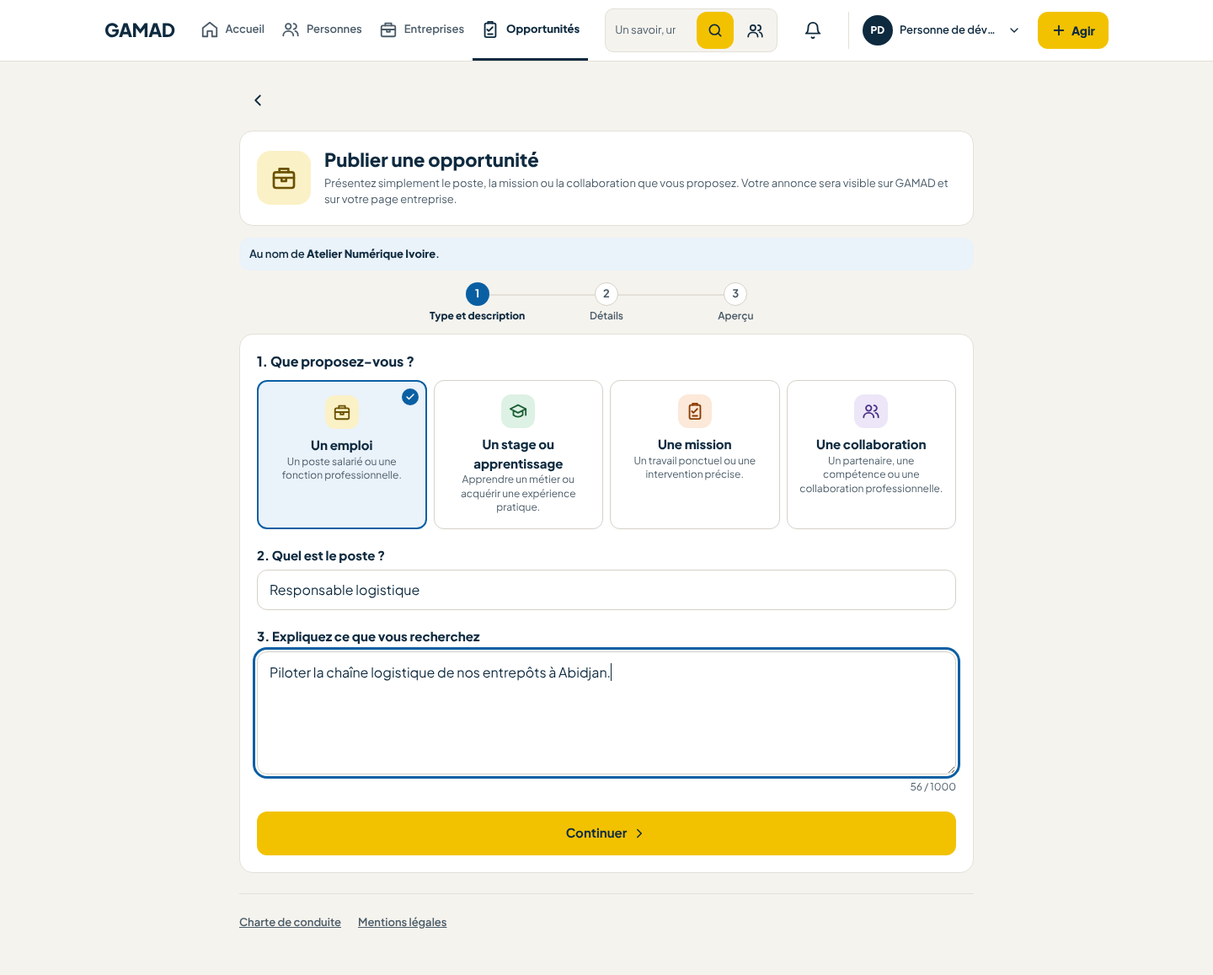
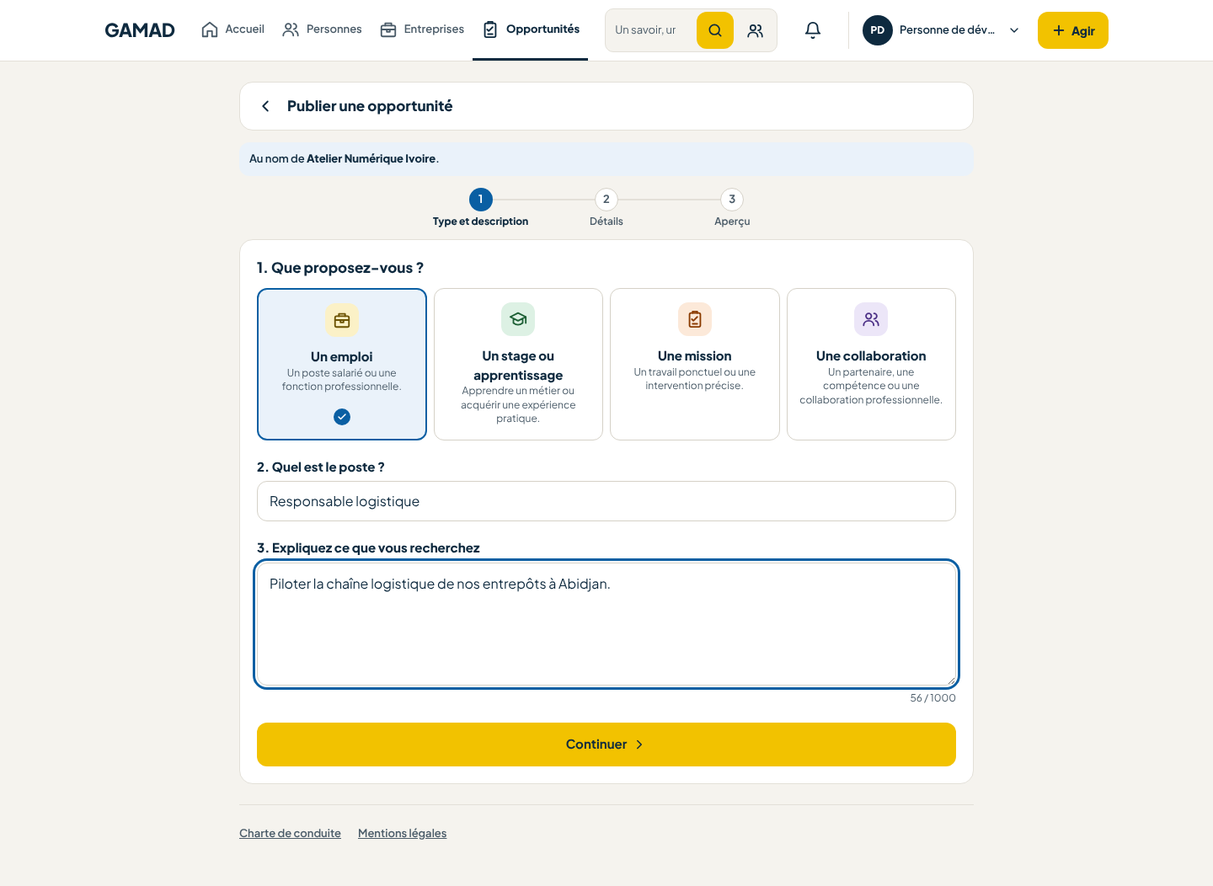
Opportunités : feuille de style sous le budget de 12 ko, parcours téléphone corrigé, captures finales
Claude-Session: https://claude.ai/code/session_01HadbpwLj9VLL4L1zDggZLr

diff --git a/resources/views/livewire/opportunity-catalog.blade.php b/resources/views/livewire/opportunity-catalog.blade.php
@@ -6,7 +6,7 @@
 @endphp
 <div class="opportunity-catalog min-w-0" x-data="{ filters: false }" x-on:keydown.escape.window="filters = false">
     <div class="grid min-w-0 items-start gap-4 lg:grid-cols-[260px_minmax(0,1fr)] xl:grid-cols-[270px_minmax(0,1fr)_330px]">
-        <header class="min-w-0 rounded-card border border-line bg-soft-blue p-5 lg:col-span-2 xl:col-span-3">
+        <header class="min-w-0 rounded-card border border-line bg-soft-blue p-5 col-span-full">
             <div class="flex min-w-0 flex-wrap items-center gap-4">
                 <span class="flex size-16 shrink-0 items-center justify-center rounded-card bg-accent text-ink"><x-icon name="project" :size="34" /></span>
                 <div class="min-w-0 flex-1">
@@ -15,60 +15,60 @@
                 </div>
                 <div class="flex flex-wrap gap-2">
                     @if ($publishCompany)<x-button :href="route('entreprises.opportunities', $publishCompany)" variant="accent">Publier une opportunité</x-button>@endif
-                    <x-button :href="route('entreprises.index')" variant="secondary" class="border-accent !bg-card"><x-icon name="project" :size="18" class="mr-2" />Voir les entreprises</x-button>
+                    <x-button :href="route('entreprises.index')" variant="secondary" class="border-accent"><x-icon name="project" :size="18" class="mr-2" />Voir les entreprises</x-button>
                 </div>
             </div>
         </header>
 
-        <aside aria-label="Recherche et filtres" class="min-w-0 rounded-card border border-line bg-card p-4 lg:row-start-2">
+        <aside aria-label="Recherche et filtres" class="min-w-0 rounded-card border border-line bg-card p-4">
             <div class="flex items-center gap-2">
                 <div class="flex min-w-0 flex-1 items-center gap-2 rounded-button border border-line bg-card px-3 focus-within:border-link">
                     <x-icon name="search" :size="18" />
                     <label for="opportunite-recherche" class="sr-only">Rechercher une opportunité</label>
                     <input id="opportunite-recherche" type="search" wire:model.live.debounce.300ms="query" maxlength="100" autocomplete="off" placeholder="Rechercher…" class="min-h-11 min-w-0 flex-1 border-0 bg-transparent text-[14px] outline-none">
                 </div>
-                <button type="button" x-on:click="filters = true" aria-haspopup="dialog" aria-label="Filtres{{ $activeFilters > 0 ? ' ('.$activeFilters.' actifs)' : '' }}" class="relative flex size-11 shrink-0 items-center justify-center rounded-button border border-line lg:hidden"><x-icon name="menu" :size="20" />@if ($activeFilters > 0)<span class="absolute -right-1 -top-1 flex size-5 items-center justify-center rounded-full bg-ink text-[11px] font-bold text-white">{{ $activeFilters }}</span>@endif</button>
+                <button type="button" x-on:click="filters = true" aria-haspopup="dialog" aria-label="Filtres{{ $activeFilters > 0 ? ' ('.$activeFilters.' actifs)' : '' }}" class="flex size-11 shrink-0 items-center justify-center rounded-button border border-line lg:hidden"><x-icon name="menu" :size="20" /></button>
             </div>
 
             {{-- Panneau de filtres : colonne à gauche sur ordinateur, fenêtre plein écran sur téléphone. --}}
             <div id="opportunite-filtres" x-bind:class="filters ? 'fixed inset-0 z-40 block overflow-y-auto bg-card p-5' : 'hidden lg:block'" x-bind:role="filters ? 'dialog' : null" x-bind:aria-modal="filters ? 'true' : null" aria-label="Filtres des opportunités">
                 <div class="mb-4 flex items-center justify-between lg:hidden"><h2 class="text-[20px] font-extrabold">Filtres</h2><button type="button" x-on:click="filters = false" aria-label="Fermer les filtres" class="flex size-11 items-center justify-center rounded-button border border-line"><x-icon name="close" :size="20" /></button></div>
-                <fieldset class="mt-4 lg:mt-5">
+                <fieldset class="mt-4">
                     <legend class="mb-2 text-[14px] font-extrabold">Type d’opportunité</legend>
                     <div class="space-y-0.5">
                         <button type="button" wire:click="setKind('')" aria-pressed="{{ $kind === '' ? 'true' : 'false' }}" class="flex min-h-11 w-full items-center gap-2 rounded-button px-2 text-left text-[14px]">
-                            <span class="flex size-[18px] shrink-0 items-center justify-center rounded-[4px] border {{ $kind === '' ? 'border-link bg-link text-white' : 'border-line' }}">@if ($kind === '')<x-icon name="check" :size="12" :stroke="3" />@endif</span>
+                            <span class="flex size-[18px] shrink-0 items-center justify-center rounded-chip border {{ $kind === '' ? 'border-link bg-link text-white' : 'border-line' }}">@if ($kind === '')<x-icon name="check" :size="12" :stroke="3" />@endif</span>
                             <span class="flex-1">Tous</span><span class="text-muted">({{ $totalCount }})</span>
                         </button>
                         @foreach ($kinds as $k)
                             <button type="button" wire:click="setKind('{{ $kind === $k->value ? '' : $k->value }}')" aria-pressed="{{ $kind === $k->value ? 'true' : 'false' }}" class="flex min-h-11 w-full items-center gap-2 rounded-button px-2 text-left text-[14px]">
-                                <span class="flex size-[18px] shrink-0 items-center justify-center rounded-[4px] border {{ $kind === $k->value ? 'border-link bg-link text-white' : 'border-line' }}">@if ($kind === $k->value)<x-icon name="check" :size="12" :stroke="3" />@endif</span>
+                                <span class="flex size-[18px] shrink-0 items-center justify-center rounded-chip border {{ $kind === $k->value ? 'border-link bg-link text-white' : 'border-line' }}">@if ($kind === $k->value)<x-icon name="check" :size="12" :stroke="3" />@endif</span>
                                 <span class="flex-1">{{ $k->pluralLabel() }}</span><span class="text-muted">({{ $kindCounts[$k->value] ?? 0 }})</span>
                             </button>
                         @endforeach
                     </div>
                 </fieldset>
-                <div class="mt-4"><label for="filtre-localite" class="mb-1.5 block text-[14px] font-extrabold">Localité</label>
+                <div class="mt-4"><label for="filtre-localite" class="mb-2 block text-[14px] font-extrabold">Localité</label>
                     <div class="flex items-center gap-2 rounded-button border border-line bg-card px-3 focus-within:border-link">
                         <input id="filtre-localite" type="text" list="opportunite-villes" wire:model.live.debounce.400ms="city" maxlength="80" autocomplete="off" placeholder="Ex. : Abidjan, Yopougon" class="min-h-11 min-w-0 flex-1 border-0 bg-transparent text-[14px] outline-none">
                         <x-icon name="pin" :size="16" class="shrink-0 text-muted" />
                     </div>
                     <datalist id="opportunite-villes">@foreach ($cities as $c)<option value="{{ $c->name }}">{{ $c->label() }}</option>@endforeach</datalist></div>
-                <div class="mt-4"><label for="filtre-domaine" class="mb-1.5 block text-[14px] font-extrabold">Domaine</label>
+                <div class="mt-4"><label for="filtre-domaine" class="mb-2 block text-[14px] font-extrabold">Domaine</label>
                     <select id="filtre-domaine" wire:model.live="domain" class="zumra-filter w-full"><option value="">Tous les domaines</option>@foreach ($domains as $d)<option value="{{ $d->id }}">{{ $d->name }}</option>@endforeach</select></div>
-                <div class="mt-4"><label for="filtre-date" class="mb-1.5 block text-[14px] font-extrabold">Date de publication</label>
+                <div class="mt-4"><label for="filtre-date" class="mb-2 block text-[14px] font-extrabold">Date de publication</label>
                     <select id="filtre-date" wire:model.live="date" class="zumra-filter w-full">@foreach (\App\Livewire\OpportunityCatalog::DATES as $value => $label)<option value="{{ $value }}">{{ $label }}</option>@endforeach</select></div>
                 <button type="button" x-on:click="filters = false" class="mt-6 inline-flex min-h-12 w-full items-center justify-center rounded-button bg-accent px-3 text-[15px] font-bold text-ink lg:hidden">Voir les résultats ({{ $n }})</button>
-                <button type="button" wire:click="clearFilters" class="mt-3 inline-flex min-h-11 w-full items-center justify-center rounded-button px-3 text-[14px] font-bold text-link lg:mt-5 lg:border lg:border-link">Réinitialiser les filtres</button>
+                <button type="button" wire:click="clearFilters" class="mt-3 inline-flex min-h-11 w-full items-center justify-center rounded-button px-3 text-[14px] font-bold text-link border border-link">Réinitialiser les filtres</button>
             </div>
         </aside>
 
-        <main class="min-w-0 space-y-4 lg:row-start-2">
+        <main class="min-w-0 space-y-4">
             <div class="rounded-card border border-line bg-card p-4">
                 <div role="tablist" aria-label="Type d’opportunité" class="-mx-1 flex max-w-full gap-2 overflow-x-auto px-1 py-1">
-                    <button type="button" role="tab" aria-selected="{{ $kind === '' ? 'true' : 'false' }}" wire:click="setKind('')" class="inline-flex min-h-11 shrink-0 items-center gap-1.5 rounded-button px-4 text-[13px] font-bold {{ $kind === '' ? 'bg-link text-white' : 'border border-line bg-card' }}">Toutes <span class="rounded-[5px] px-1.5 text-[12px] {{ $kind === '' ? 'bg-white/25' : 'bg-soft-blue text-link' }}">{{ $totalCount }}</span></button>
+                    <button type="button" role="tab" aria-selected="{{ $kind === '' ? 'true' : 'false' }}" wire:click="setKind('')" class="inline-flex min-h-11 shrink-0 items-center gap-1.5 rounded-button px-4 text-[13px] font-bold {{ $kind === '' ? 'bg-link text-white' : 'border border-line bg-card' }}">Toutes <span class="rounded-chip px-2 text-[12px] {{ $kind === '' ? 'bg-card text-link' : 'bg-soft-blue text-link' }}">{{ $totalCount }}</span></button>
                     @foreach ($kinds as $k)
-                        <button type="button" role="tab" aria-selected="{{ $kind === $k->value ? 'true' : 'false' }}" wire:click="setKind('{{ $k->value }}')" class="inline-flex min-h-11 shrink-0 items-center gap-1.5 rounded-button px-4 text-[13px] font-bold {{ $kind === $k->value ? 'bg-link text-white' : 'border border-line bg-card' }}">{{ $k->tabLabel() }} <span class="rounded-[5px] px-1.5 text-[12px] {{ $kind === $k->value ? 'bg-white/25' : 'bg-soft-blue text-link' }}">{{ $kindCounts[$k->value] ?? 0 }}</span></button>
+                        <button type="button" role="tab" aria-selected="{{ $kind === $k->value ? 'true' : 'false' }}" wire:click="setKind('{{ $k->value }}')" class="inline-flex min-h-11 shrink-0 items-center gap-1.5 rounded-button px-4 text-[13px] font-bold {{ $kind === $k->value ? 'bg-link text-white' : 'border border-line bg-card' }}">{{ $k->tabLabel() }} <span class="rounded-chip px-2 text-[12px] {{ $kind === $k->value ? 'bg-card text-link' : 'bg-soft-blue text-link' }}">{{ $kindCounts[$k->value] ?? 0 }}</span></button>
                     @endforeach
                 </div>
                 <div class="mt-4 flex flex-wrap items-center justify-between gap-3">
@@ -99,7 +99,7 @@
             <p class="flex items-start justify-center gap-2 text-center text-[13px] text-muted"><x-icon name="shield" :size="16" class="mt-0.5 shrink-0" /> Seules les entreprises vérifiées par GAMAD publient des opportunités. Cette vérification ne garantit ni le recrutement ni les conditions proposées.</p>
         </main>
 
-        <aside aria-label="Découvrir" class="min-w-0 space-y-4 lg:col-start-2 xl:col-start-3 xl:row-start-2">
+        <aside aria-label="Découvrir" class="min-w-0 space-y-4 lg:col-start-2 xl:col-start-3">
             @if ($forYou->isNotEmpty())
                 <section aria-labelledby="pour-vous-titre" class="rounded-card border border-line bg-card p-4">
                     <h2 id="pour-vous-titre" class="text-[17px] font-extrabold">Selon vos capacités</h2>

diff --git a/resources/views/livewire/opportunity-form.blade.php b/resources/views/livewire/opportunity-form.blade.php
@@ -6,28 +6,23 @@
     $domainLabel = $domain_id !== '' ? $domains->firstWhere('id', $domain_id)?->name : null;
 @endphp
 <div class="flex flex-col gap-3.5" data-opportunity-form>
-    <div class="-mx-4 -mt-4 flex min-h-14 items-center gap-1 border-b border-line bg-card px-2 py-1.5 md:mx-0 md:mt-0 md:min-h-0 md:border-0 md:bg-transparent md:px-0 md:py-0">
+    <div class="-mx-4 -mt-4 flex min-h-14 items-center gap-1 border-b border-line bg-card px-2 py-1.5 md:mx-0 md:mt-0 md:rounded-card md:border">
         @if ($step > 1)
             <button type="button" wire:click="back" aria-label="Revenir à l’étape précédente" class="flex size-11 items-center justify-center text-ink"><x-icon name="back" /></button>
         @else
             <a href="{{ route('entreprises.opportunities', $company) }}" aria-label="Retour à mes opportunités" class="flex size-11 items-center justify-center text-ink hover:text-ink"><x-icon name="back" /></a>
         @endif
-        <h1 class="flex-1 text-[17px] font-extrabold md:sr-only">{{ $editing ? 'Modifier l’opportunité' : 'Publier une opportunité' }}</h1>
+        <h1 class="flex-1 text-[17px] font-extrabold">{{ $editing ? 'Modifier l’opportunité' : 'Publier une opportunité' }}</h1>
     </div>
 
-    <header class="flex min-w-0 items-center gap-4 rounded-card border border-line bg-card p-4 max-md:hidden md:p-5">
-        <span class="flex size-16 shrink-0 items-center justify-center rounded-card bg-type-call-bg text-type-call-fg"><x-icon name="project" :size="32" /></span>
-        <div class="min-w-0"><h2 class="text-[22px] font-extrabold leading-tight">Publier une opportunité</h2>
-            <p class="mt-1 text-[13px] leading-normal text-muted">Présentez simplement le poste, la mission ou la collaboration que vous proposez. Votre annonce sera visible sur GAMAD et sur votre page entreprise.</p></div>
-    </header>
     <p class="rounded-button bg-soft-blue px-3 py-2.5 text-[13px] font-semibold">Au nom de <strong>{{ $company->name }}</strong>.@unless ($verified) Votre entreprise n’est pas encore vérifiée par GAMAD : vous pouvez préparer un brouillon, mais pas publier.@endunless</p>
 
-    <ol class="m-0 mx-auto flex w-full max-w-[460px] list-none items-start p-0" aria-label="Étapes du formulaire">
+    <ol class="m-0 mx-auto flex w-full max-w-md list-none items-start p-0" aria-label="Étapes du formulaire">
         @foreach (['Type et description', 'Détails', 'Aperçu'] as $i => $label)
             @php $n = $i + 1; @endphp
             <li @if ($step === $n) aria-current="step" @endif class="relative flex min-w-0 flex-1 flex-col items-center gap-1 text-center {{ $step === $n ? 'font-extrabold text-ink' : 'font-semibold text-muted' }}">
-                @if ($n > 1)<span aria-hidden="true" class="absolute right-1/2 top-[14px] h-0.5 w-full {{ $step >= $n ? 'bg-link' : 'bg-line' }}"></span>@endif
-                <span @class(['relative z-[1] flex size-7 shrink-0 items-center justify-center rounded-full text-[13px] font-bold', 'bg-link text-white' => $step >= $n, 'border border-chip-line bg-card text-muted' => $step < $n])>@if ($step > $n)<x-icon name="check" :size="14" :stroke="3" />@else{{ $n }}@endif</span>
+                @if ($n > 1)<span aria-hidden="true" style="position:absolute;right:50%;top:13px;width:100%;height:2px" class="{{ $step >= $n ? 'bg-link' : 'bg-line' }}"></span>@endif
+                <span @class(['relative z-10 flex size-7 shrink-0 items-center justify-center rounded-full text-[13px] font-bold', 'bg-link text-white' => $step >= $n, 'border border-chip-line bg-card text-muted' => $step < $n])>@if ($step > $n)<x-icon name="check" :size="14" :stroke="3" />@else{{ $n }}@endif</span>
                 <span class="px-1 text-[12px] leading-tight">{{ $label }}</span>
             </li>
         @endforeach
@@ -37,19 +32,19 @@
         @if ($step === 1)
             <section class="flex flex-col gap-5 rounded-card border border-line bg-card p-4 md:p-5">
                 <fieldset>
-                    <legend class="{{ $labelClass }} mb-2.5 text-[17px] md:text-[16px]"><span class="md:hidden">Que propose votre entreprise ?</span><span class="max-md:hidden">1. Que proposez-vous ?</span></legend>
+                    <legend class="{{ $labelClass }} mb-3 text-[17px]"><span class="md:hidden">Que propose votre entreprise ?</span><span class="hidden md:block">1. Que proposez-vous ?</span></legend>
                     <div class="grid gap-2 md:grid-cols-4">
                         @foreach ($kinds as $k)
-                            <button type="button" wire:click="chooseKind('{{ $k->value }}')" aria-pressed="{{ $kind === $k->value ? 'true' : 'false' }}" @class(['relative flex min-h-[60px] items-center gap-3 rounded-button bg-card px-3 py-2 text-left md:min-h-[150px] md:flex-col md:justify-start md:gap-2 md:px-3 md:py-4 md:text-center', 'border-2 border-link bg-soft-blue' => $kind === $k->value, 'border border-chip-line' => $kind !== $k->value])>
+                            <button type="button" wire:click="chooseKind('{{ $k->value }}')" aria-pressed="{{ $kind === $k->value ? 'true' : 'false' }}" @class(['relative flex min-h-14 items-center gap-3 rounded-button bg-card px-3 py-2 text-left md:flex-col md:py-4 md:text-center', 'border-2 border-link bg-soft-blue' => $kind === $k->value, 'border border-chip-line' => $kind !== $k->value])>
                                 <span class="flex size-10 shrink-0 items-center justify-center rounded-button {{ $k->badgeClasses() }}"><x-icon :name="$k->icon()" :size="22" /></span>
-                                <span class="min-w-0 flex-1 md:flex-none"><span class="block text-[15px] font-extrabold">{{ $k->chooseLabel() }}</span><span class="block text-[12px] leading-snug text-muted max-md:hidden">{{ $k->chooseHint() }}</span></span>
-                                @if ($kind === $k->value)<span class="flex size-5 shrink-0 items-center justify-center rounded-full bg-link text-white md:absolute md:right-2 md:top-2"><x-icon name="check" :size="12" :stroke="3" /></span>@else<x-icon name="next" :size="18" class="shrink-0 text-muted md:hidden" />@endif
+                                <span class="min-w-0 flex-1"><span class="block text-[15px] font-extrabold">{{ $k->chooseLabel() }}</span><span class="hidden text-[12px] leading-snug text-muted md:block">{{ $k->chooseHint() }}</span></span>
+                                @if ($kind === $k->value)<span class="flex size-5 shrink-0 items-center justify-center rounded-full bg-link text-white"><x-icon name="check" :size="12" :stroke="3" /></span>@else<x-icon name="next" :size="18" class="shrink-0 text-muted md:hidden" />@endif
                             </button>
                         @endforeach
                     </div>
                     @error('kind')<p role="alert" class="mt-2 text-[13px] font-semibold text-danger">{{ $message }}</p>@enderror
                 </fieldset>
-                <div class="flex flex-col gap-5 max-md:hidden">
+                <div class="hidden flex-col gap-5 md:flex">
                     <div class="flex flex-col gap-1.5">
                         <label for="title" class="{{ $labelClass }}">2. {{ $kindEnum?->titleQuestion() ?? 'Quel est le poste ?' }}</label>
                         <input id="title" type="text" wire:model="title" maxlength="160" placeholder="{{ $kindEnum?->titlePlaceholder() ?? 'Ex. : Ingénieur réseau' }}" class="{{ $field('title') }}" @if ($errors->has('title')) aria-invalid="true" @endif>
@@ -57,13 +52,13 @@
                     </div>
                     <div class="flex flex-col gap-1.5" x-data="{ count: [...$wire.description].length }">
                         <label for="description" class="{{ $labelClass }}">3. Expliquez ce que vous recherchez</label>
-                        <textarea id="description" wire:model="description" rows="5" maxlength="1000" x-on:input="count = [...$event.target.value].length" placeholder="Décrivez le poste, les missions et le contexte." class="min-h-[130px] {{ $area('description') }}" @if ($errors->has('description')) aria-invalid="true" @endif></textarea>
+                        <textarea id="description" wire:model="description" rows="5" maxlength="1000" x-on:input="count = [...$event.target.value].length" placeholder="Décrivez le poste, les missions et le contexte." class="min-h-[140px] {{ $area('description') }}" @if ($errors->has('description')) aria-invalid="true" @endif></textarea>
                         <span class="self-end text-[12px] text-muted"><span x-text="count">{{ mb_strlen($description) }}</span> / 1000</span>
                         @error('description')<p role="alert" class="text-[13px] font-semibold text-danger">{{ $message }}</p>@enderror
                     </div>
                 </div>
-                <x-button type="button" variant="accent" class="min-h-[52px] w-full max-md:hidden" wire:click="next" wire:loading.attr="disabled" wire:target="next">Continuer <x-icon name="next" :size="18" class="ml-1.5" /></x-button>
-                <x-button type="button" variant="accent" class="min-h-[52px] w-full md:hidden" wire:click="nextCompact" wire:loading.attr="disabled" wire:target="nextCompact">Continuer <x-icon name="next" :size="18" class="ml-1.5" /></x-button>
+                <div class="hidden md:block"><x-button type="button" variant="accent" class="min-h-[52px] w-full" wire:click="next" wire:loading.attr="disabled" wire:target="next">Continuer <x-icon name="next" :size="18" class="ml-1.5" /></x-button></div>
+                <div class="md:hidden"><x-button type="button" variant="accent" class="min-h-[52px] w-full" wire:click="nextCompact" wire:loading.attr="disabled" wire:target="nextCompact">Continuer <x-icon name="next" :size="18" class="ml-1.5" /></x-button></div>
             </section>
         @endif
 
@@ -78,7 +73,7 @@
                     </div>
                     <div class="flex flex-col gap-1.5" x-data="{ count: [...$wire.description].length }">
                         <label for="description" class="{{ $labelClass }}">Expliquez ce que vous recherchez</label>
-                        <textarea id="description" wire:model="description" rows="5" maxlength="1000" x-on:input="count = [...$event.target.value].length" placeholder="Décrivez le poste, les missions…" class="min-h-[130px] {{ $area('description') }}" @if ($errors->has('description')) aria-invalid="true" @endif></textarea>
+                        <textarea id="description" wire:model="description" rows="5" maxlength="1000" x-on:input="count = [...$event.target.value].length" placeholder="Décrivez le poste, les missions…" class="min-h-[140px] {{ $area('description') }}" @if ($errors->has('description')) aria-invalid="true" @endif></textarea>
                         <span class="self-end text-[12px] text-muted"><span x-text="count">{{ mb_strlen($description) }}</span> / 1000</span>
                         @error('description')<p role="alert" class="text-[13px] font-semibold text-danger">{{ $message }}</p>@enderror
                     </div>

diff --git a/resources/views/components/opportunity-card.blade.php b/resources/views/components/opportunity-card.blade.php
@@ -5,32 +5,28 @@
     $deadline = $opportunity->deadline?->locale('fr')->translatedFormat('j M Y');
     $place = $opportunity->city?->label();
 @endphp
-<article {{ $attributes->class(['opportunity-card relative min-w-0 rounded-card border border-line bg-card p-4']) }}>
-    <div class="flex min-w-0 gap-3 sm:gap-4">
-        <x-company-logo :company="$company" :size="64" class="max-sm:!size-14" />
-        <div class="min-w-0 flex-1 space-y-1">
-            <h3 class="min-w-0 break-words text-[17px] font-extrabold leading-tight sm:text-[18px]"><a href="{{ route('opportunites.show', $opportunity) }}" class="-my-2 inline-flex min-h-11 items-center text-ink no-underline hover:underline max-sm:after:absolute max-sm:after:inset-0 max-sm:after:content-['']">{{ $opportunity->title }}</a></h3>
-            <p class="-mt-1 flex min-w-0 flex-wrap items-center gap-x-1.5 text-[14px] font-semibold"><a href="{{ route('entreprises.show', $company) }}" class="relative z-[1] -my-2 inline-flex min-h-11 items-center break-words text-ink no-underline hover:underline">{{ $company->name }}</a>
-                @if ($company->verified())<span class="inline-flex size-[16px] items-center justify-center rounded-full bg-link text-white" title="Immatriculation vérifiée par GAMAD"><x-icon name="check" :size="11" /><span class="sr-only">Immatriculation vérifiée par GAMAD</span></span>@endif</p>
-            <p class="flex flex-wrap items-center gap-x-3 gap-y-0.5 text-[13px] text-muted">
+<article {{ $attributes->class(['opportunity-card min-w-0 rounded-card border border-line bg-card p-4']) }}>
+    <div class="flex min-w-0 flex-wrap gap-3 sm:flex-nowrap">
+        <x-company-logo :company="$company" :size="60" />
+        <div class="min-w-0 flex-1 basis-48 space-y-1">
+            <h3 class="min-w-0 break-words text-[17px] font-extrabold leading-tight"><a href="{{ route('opportunites.show', $opportunity) }}" class="-my-2 inline-flex min-h-11 items-center text-ink no-underline hover:underline">{{ $opportunity->title }}</a></h3>
+            <p class="flex min-w-0 flex-wrap items-center gap-x-2 text-[14px] font-semibold"><a href="{{ route('entreprises.show', $company) }}" class="-my-2 inline-flex min-h-11 items-center break-words text-ink no-underline hover:underline">{{ $company->name }}</a>
+                @if ($company->verified())<span class="inline-flex size-[18px] items-center justify-center rounded-full bg-link text-white" title="Immatriculation vérifiée par GAMAD"><x-icon name="check" :size="11" /><span class="sr-only">Immatriculation vérifiée par GAMAD</span></span>@endif</p>
+            <p class="flex flex-wrap items-center gap-x-3 gap-y-1 text-[13px] text-muted">
                 @if ($place)<span class="inline-flex items-center gap-1"><x-icon name="pin" :size="15" />{{ $place }}</span>@endif
                 <span>{{ $opportunity->published_at->copy()->locale('fr')->timezone('Africa/Abidjan')->diffForHumans() }}</span>
                 @if ($deadline)<span>· avant le {{ $deadline }}</span>@endif
             </p>
             @unless ($compact)<p class="line-clamp-2 break-words text-[14px] leading-snug text-muted">{{ $opportunity->firstLine(220) }}</p>@endunless
-            <span class="inline-flex rounded-chip px-3 py-1 text-[12px] font-bold sm:hidden {{ $opportunity->kind->badgeClasses() }}">{{ $opportunity->kind->label() }}</span>
         </div>
-        <div class="hidden shrink-0 flex-col items-end justify-between gap-3 sm:flex sm:w-[170px]">
+        <div class="flex w-full shrink-0 items-center justify-between gap-3 sm:w-44 sm:flex-col sm:items-end">
             <span class="rounded-chip px-3 py-1 text-[12px] font-bold {{ $opportunity->kind->badgeClasses() }}">{{ $opportunity->kind->label() }}</span>
             <div class="flex flex-col items-end gap-1">
-                <x-button :href="route('opportunites.show', $opportunity)" variant="secondary" class="!min-h-11 !border-link !px-4 !text-[13px] !text-link">Voir l’opportunité <x-icon name="next" :size="16" class="ml-1.5" /></x-button>
+                <x-button :href="route('opportunites.show', $opportunity)" variant="secondary" class="!min-h-11 !border-link !text-[13px] !text-link">Voir l’opportunité <x-icon name="next" :size="16" class="ml-1.5" /></x-button>
                 @if ($canAct)
                     <button type="button" wire:click="toggleSave('{{ $opportunity->id }}')" aria-pressed="{{ $saved ? 'true' : 'false' }}" class="inline-flex min-h-11 items-center gap-1.5 px-2 text-[12px] font-bold text-link"><x-icon name="book" :size="15" />{{ $saved ? 'Sauvegardée' : 'Sauvegarder' }}</button>
                 @endif
             </div>
         </div>
     </div>
-    @if ($canAct)
-        <button type="button" wire:click="toggleSave('{{ $opportunity->id }}')" aria-pressed="{{ $saved ? 'true' : 'false' }}" class="relative z-[1] -mb-2 mt-1 inline-flex min-h-11 items-center gap-1.5 px-1 text-[13px] font-bold text-link sm:hidden"><x-icon name="book" :size="15" />{{ $saved ? 'Sauvegardée' : 'Sauvegarder' }}</button>
-    @endif
 </article>

diff --git a/resources/views/pages/opportunity-show.blade.php b/resources/views/pages/opportunity-show.blade.php
@@ -20,7 +20,7 @@
 
     <div class="grid min-w-0 items-start gap-4 lg:grid-cols-[minmax(0,1fr)_330px]">
         <article class="min-w-0 overflow-hidden rounded-card border border-line bg-card">
-            <div class="relative h-40 overflow-hidden bg-ink sm:h-56" aria-hidden="true">
+            <div class="relative h-40 overflow-hidden bg-ink sm:h-52" aria-hidden="true">
                 @if ($company->banner_path && $verified)
                     <img src="{{ route('entreprises.visual', [$company, 'banner']) }}" alt="" class="absolute inset-0 size-full object-cover" fetchpriority="high">
                 @else
@@ -32,7 +32,7 @@
                 <div class="-mt-10 flex min-w-0 flex-wrap items-end gap-x-4 gap-y-3">
                     <x-company-logo :company="$company" :size="84" class="border-4 border-card bg-card shadow-sm" />
                     <div class="min-w-0 flex-1 basis-48 pb-1">
-                        <p class="flex flex-wrap items-center gap-x-2.5"><a href="{{ route('entreprises.show', $company) }}" class="inline-flex min-h-11 items-center break-words text-[17px] font-extrabold text-ink no-underline hover:underline">{{ $company->name }}</a>
+                        <p class="flex flex-wrap items-center gap-x-3"><a href="{{ route('entreprises.show', $company) }}" class="inline-flex min-h-11 items-center break-words text-[17px] font-extrabold text-ink no-underline hover:underline">{{ $company->name }}</a>
                             @if ($verified)<span class="inline-flex size-5 items-center justify-center rounded-full bg-link text-white" title="Immatriculation vérifiée par GAMAD"><x-icon name="check" :size="13" :stroke="3" /><span class="sr-only">Immatriculation vérifiée par GAMAD</span></span>@endif</p>
                         <a href="{{ route('entreprises.show', $company) }}" class="-mt-2 inline-flex min-h-11 items-center text-[13px] font-bold text-link">Voir le profil de l’entreprise <x-icon name="next" :size="14" class="ml-1" /></a>
                     </div>
@@ -70,7 +70,7 @@
 
                 <h1 class="mt-5 break-words text-[28px] font-extrabold leading-tight">{{ $opportunity->title }}</h1>
                 <div class="mt-3 flex flex-wrap items-center gap-2">
-                    <span class="inline-flex items-center gap-1.5 rounded-chip border border-link/30 bg-soft-blue px-3 py-1 text-[13px] font-bold text-link"><x-icon :name="$opportunity->kind->icon()" :size="15" />{{ $opportunity->kind->label() }}</span>
+                    <span class="inline-flex items-center gap-1.5 rounded-chip border border-chip-line bg-soft-blue px-3 py-1 text-[13px] font-bold text-link"><x-icon :name="$opportunity->kind->icon()" :size="15" />{{ $opportunity->kind->label() }}</span>
                     @foreach ($chips as $chip)<span class="rounded-chip border border-line bg-card px-3 py-1 text-[13px] font-semibold">{{ $chip }}</span>@endforeach
                 </div>
                 <p class="mt-3 flex flex-wrap items-center gap-x-4 gap-y-1 text-[14px] text-muted">

diff --git a/resources/views/pages/opportunity-respond.blade.php b/resources/views/pages/opportunity-respond.blade.php
@@ -16,7 +16,7 @@
         <p class="rounded-button bg-soft-blue px-3 py-2.5 text-[13px] leading-normal">L’entreprise verra votre nom et pourra ouvrir votre profil public GAMAD. Votre téléphone et votre e-mail ne lui sont jamais montrés. Votre message et votre document restent privés.</p>
         <div class="flex flex-col gap-1.5">
             <label for="message" class="text-[15px] font-extrabold">Un mot de présentation <span class="text-[13px] font-semibold text-muted">(facultatif)</span></label>
-            <textarea id="message" name="message" rows="5" maxlength="1000" x-on:input="count = [...$event.target.value].length" placeholder="Ex. Bonjour, je suis électricien depuis 5 ans à Abidjan et je serais heureux de vous aider." @class(['min-h-[130px] w-full resize-y rounded-button border bg-card px-3.5 py-3 text-[16px] leading-normal', $errors->has('message') ? 'border-danger' : 'border-chip-line'])>{{ old('message') }}</textarea>
+            <textarea id="message" name="message" rows="5" maxlength="1000" x-on:input="count = [...$event.target.value].length" placeholder="Ex. Bonjour, je suis électricien depuis 5 ans à Abidjan et je serais heureux de vous aider." @class(['min-h-[140px] w-full resize-y rounded-button border bg-card px-3.5 py-3 text-[16px] leading-normal', $errors->has('message') ? 'border-danger' : 'border-chip-line'])>{{ old('message') }}</textarea>
             <span class="self-end text-[12px] text-muted"><span x-text="count">0</span> / 1000</span>
             @error('message')<p role="alert" class="text-[13px] font-semibold text-danger">{{ $message }}</p>@enderror
         </div>

diff --git a/resources/views/livewire/opportunity-manager.blade.php b/resources/views/livewire/opportunity-manager.blade.php
@@ -13,7 +13,7 @@
 
     <div role="tablist" aria-label="État des opportunités" class="-mx-1 flex gap-2 overflow-x-auto px-1 py-1">
         @foreach ($tabs as $slug => $label)
-            <button type="button" role="tab" aria-selected="{{ $tab === $slug ? 'true' : 'false' }}" wire:click="setTab('{{ $slug }}')" class="min-h-11 shrink-0 rounded-full px-4 text-[13px] font-bold {{ $tab === $slug ? 'bg-link text-white' : 'border border-line bg-card' }}">{{ $label }} <span class="ml-1 opacity-80">{{ $slug === 'toutes' ? $total : ($counts[$slug] ?? 0) }}</span></button>
+            <button type="button" role="tab" aria-selected="{{ $tab === $slug ? 'true' : 'false' }}" wire:click="setTab('{{ $slug }}')" class="min-h-11 shrink-0 rounded-full px-4 text-[13px] font-bold {{ $tab === $slug ? 'bg-link text-white' : 'border border-line bg-card' }}">{{ $label }} <span class="ml-1">{{ $slug === 'toutes' ? $total : ($counts[$slug] ?? 0) }}</span></button>
         @endforeach
     </div>
 
